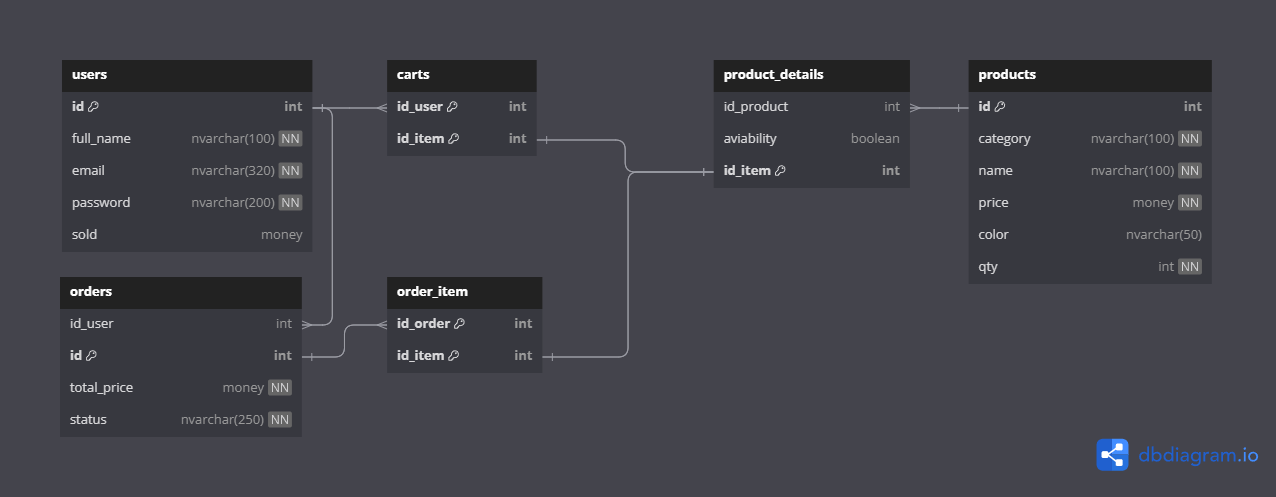
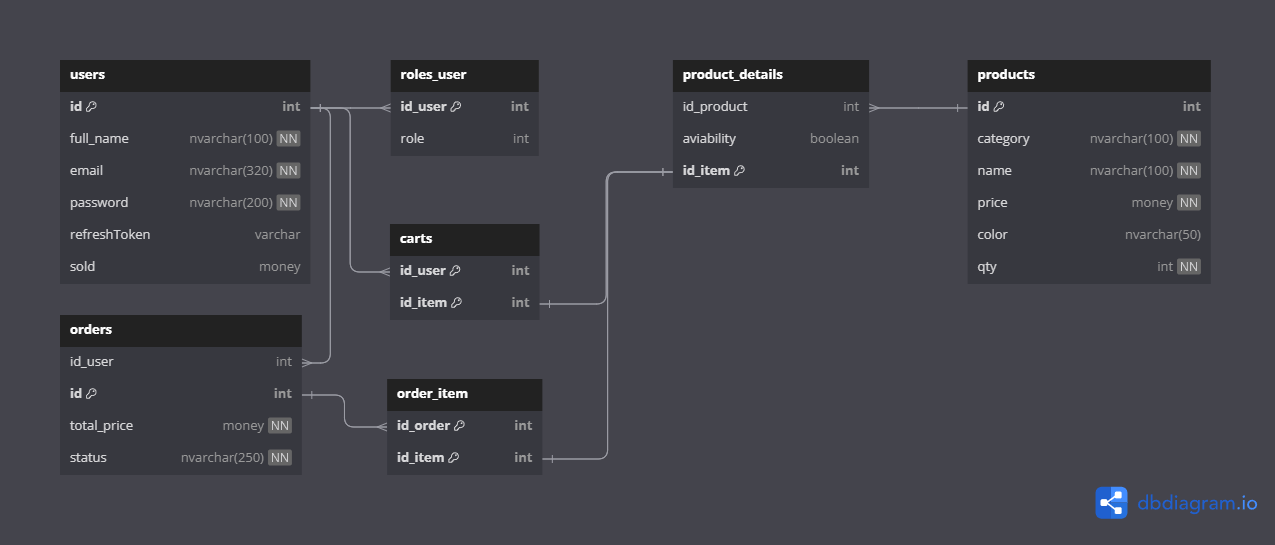
add authentification systeme in userController

diff --git a/server/controllers/UsersController.js b/server/controllers/UsersController.js
@@ -1,9 +1,8 @@
 const bcrypt = require("bcrypt");
-const {pool} = require("../Model/querie");
-/*const allUsers = await pool.query("SELECT * FROM users", async (error, results) =>{
-    if(error) throw error;
-    return results.rows
-});*/
+const {pool, getUser} = require("../Model/querie");
+const jwt = require('jsonwebtoken');
+const { SERVER } = require('../../config');
+
 
 // *** Users *** //
 
@@ -24,10 +23,6 @@ const getUserById = (request, response) =>{
 
 const addUser = async (request, response) =>{
     const {full_name, email, password, sold} = request.body;
-
-    //const duplicat = allUsers.find(user => user.full_name === full_name || user.email === email);
-    //if(duplicat) return response.sendStatus('409'); //Conflict
-
     try {
         // Encrypte the password
         const hashPswd = await bcrypt.hash(password, 10);
@@ -40,18 +35,6 @@ const addUser = async (request, response) =>{
     } catch (error) {
         response.status('500').json({"message": error.message});
     };
-};
-
-const userLogIn = (request, response) =>{
-    const {email, password} = request.body;
-    pool.query(`SELECT * FROM users WHERE email = $1`, [email], async (error, results) => {
-        if (error) throw error;
-        const match = await bcrypt.compare(password, results.rows[0].password);
-        if(match){
-            // here creation of the JWT
-            response.json({'success': `user: ${results.rows[0].full_name} is logged in.`})
-        } else response.sendStatus(401);
-    })
 };
 
 const deleteUser = (request, response) =>{
@@ -77,15 +60,101 @@ const updateUser = (request, response) =>{
         [full_name, email, password, sold], 
         (error, results) => {
             if (error) throw error;
-            response.status(201).send(`User id ${results.rows[0].id } updated`);
+            response.sendStatus(201).send(`User id ${results.rows[0].id } updated`);
     })
+};
+
+// *** LOGIN AND ROLES *** //
+
+// TOOLS
+const tokenCreation = async (token_secret, email, time) =>{
+    const token = jwt.sign(
+        {'email': email}, 
+        token_secret,
+        {expiresIn: time},
+    );
+    return token;
+};
+
+const verifyToken = async(refreshToken, refresh_token_secret, token_secret, email, response) =>{
+    jwt.verify(
+        refreshToken,
+        refresh_token_secret,
+        async (err, decoded)=>{
+            if(err || email !== decoded.email) return response.sendStatus(403); // Forbiden
+            const accessToken = await tokenCreation(token_secret, decoded.email, "1000s");
+            response.json({accessToken});
+        }
+    );
+};
+
+const foundUser = async(propertie, value) =>{
+    const allUser = await getUser();
+    const foundUser = allUser.rows.find(user => user[propertie] === value);
+    return foundUser;
+}
+
+
+// CONTROLLERS
+
+const userLogIn = async(request, response) =>{
+    const {email, password} = request.body;
+    if(!email || !password) return response.sendStatus(400).json({"message": "username and password are required"})
+    const user = await foundUser("email", email);
+    //console.log(foundUser.email)
+    if(!user) return response.sendStatus(401); // Unauthorize 
+    const match = await bcrypt.compare(password, user.password);
+    if(match){
+        // here creation of the JWT
+        const accessToken = await tokenCreation(SERVER.ACCESS_TOKEN_SECRET, user.email,'1000s');
+        const refreshToken = await tokenCreation(SERVER.REFRESH_TOKEN_SECRET, user.email,'1d');
+        console.log(refreshToken);
+        // saving refreshToken in the current user
+        pool.query("UPDATE users SET refreshtoken = $1 WHERE email = $2", [refreshToken, user.email]);
+        response.cookie('jwt', refreshToken, {httpOnly: true, maxAge: 24*60*60*1000});
+        response.json({accessToken});
+    } else response.sendStatus(401);
+};
+
+const userRefresh = async (request, response) =>{
+    const cookie = request.cookies;
+    if(!cookie?.jwt) return response.sendStatus(401);
+    const refreshToken = cookie.jwt;
+    //console.log(refreshToken);
+    const user = await foundUser("refreshtoken", refreshToken);
+    //console.log(user);
+    if(!user) return response.sendStatus(403); // Forbidden 
+    await verifyToken(refreshToken, SERVER.REFRESH_TOKEN_SECRET, SERVER.ACCESS_TOKEN_SECRET, user.email, response);
+};
+
+const userLogOut = async(request, response) =>{
+    const cookie = request.cookies;
+    if(!cookie?.jwt) return response.sendStatus(204);
+    const refreshToken = cookie.jwt;
+    //console.log(refreshToken);
+    const user = await foundUser("refreshtoken", refreshToken);
+    //console.log(user);
+    // is refreshtoken inside our DB?
+    if(!user){
+        console.log("user not found")
+        response.clearCookie('jwt', refreshToken, {httpOnly: true, maxAge: 24*60*60*1000});
+        return response.sendStatus(401);
+    };
+    //Delete refreshtoken
+    console.log(`user is found`)
+    pool.query("UPDATE users SET refreshtoken = $1 WHERE email = $2", ['', user.email]);
+    response.clearCookie('jwt', refreshToken, {httpOnly: true, maxAge: 24*60*60*1000});
+    response.sendStatus(204);
 };
 
 module.exports = {
     getAllusers,
     getUserById,
     addUser,
-    userLogIn,
     deleteUser,
-    addSold
+    addSold,
+    updateUser,
+    userLogIn,
+    userRefresh,
+    userLogOut
 };

diff --git a/app.js b/app.js
@@ -1,10 +1,12 @@
 const express = require('express');
 const bodyParser = require('body-parser');
+const cookieParser = require('cookie-parser');
 const cors = require('cors');
 const path = require("path");
 const app = express();
-const {PORT} = require('./config');
-const port = PORT;
+const {SERVER} = require('./config');
+const PORT = SERVER.PORT;
+const {verifyJWT} = require('./middlewares/verifyJWT');
 
 app.use((req, res, next)=>{
   console.log(`${req.method} ${req.path}`);
@@ -14,6 +16,7 @@ app.use((req, res, next)=>{
 app.use(cors());
 app.use(bodyParser.json());
 app.use(bodyParser.urlencoded({ extended: true }));
+app.use(cookieParser());
 app.use(express.static(path.join(__dirname, "/public")));
 
 app.get('/home', (req, res) =>{
@@ -24,7 +27,7 @@ app.get('/logIn', (req, res) =>{
   res.sendFile(path.join(__dirname, "public", "html", "logIn.html"));
 });
 
-app.get('/shop', (req, res) =>{
+app.get('/shop', verifyJWT, (req, res) =>{
   res.sendFile(path.join(__dirname, "public", "html", "shop.html"));
 });
 
@@ -32,7 +35,7 @@ app.get('/signIn', (req, res) =>{
   res.sendFile(path.join(__dirname, "public", "html", "signIn.html"));
 });
 
-app.get('/tools', (req, res) =>{
+app.get('/tools', verifyJWT, (req, res) =>{
   res.sendFile(path.join(__dirname, "public", "html", "tools.html"));
 });
 
@@ -48,6 +51,6 @@ app.use('/ProductDetails', ProductsDetailsRouter);
 const ProductsRouter = require('./server/routes/ProductsRoute');
 app.use('/Products', ProductsRouter);
 
-app.listen(port, ()=>{
-    console.log(`App is listening on port: ${port}`)
+app.listen(PORT, ()=>{
+    console.log(`App is listening on port: ${PORT}`)
 });

diff --git a/server/routes/UsersRoute.js b/server/routes/UsersRoute.js
@@ -3,17 +3,25 @@ const {
     getAllusers,
     getUserById,
     addUser,
-    userLogIn,
     deleteUser,
-    addSold
+    addSold,
+    updateUser,
+    userLogIn,
+    userRefresh,
+    setUserRole,
+    userLogOut
 } =  require('../controllers/UsersController');
+const {verifyJWT} = require('../../middlewares/verifyJWT');
 
 // users manipulation
-UsersRouter.get('/', getAllusers);
-UsersRouter.get('/:id', getUserById);
+
 UsersRouter.post('/addUser', addUser);
 UsersRouter.post('/logIn', userLogIn);
-UsersRouter.delete('/:id/deleteUser', deleteUser);
-UsersRouter.put('/:id/addSold', addSold);
+UsersRouter.put('/logOut', userLogOut);
+UsersRouter.get('/refresh', userRefresh);
+UsersRouter.delete('/:id/deleteUser', verifyJWT, deleteUser);
+UsersRouter.put('/:id/addSold', verifyJWT, addSold);
+UsersRouter.get('/', verifyJWT, getAllusers);
+UsersRouter.get('/:id', verifyJWT, getUserById);
 
 module.exports = UsersRouter;

diff --git a/server/routes/ProductsRoute.js b/server/routes/ProductsRoute.js
@@ -8,17 +8,18 @@ const {
     addProductDetail, 
     getProductDetailByProduct,
 } =  require('../controllers/ProductsController');
+const {verifyJWT} = require('../../middlewares/verifyJWT');
 
 // products manipulation
-ProductsRouter.get('/', getAllProducts);
+ProductsRouter.get('/', verifyJWT, getAllProducts);
 ProductsRouter.get('/:id', getProductById);
 ProductsRouter.post('/addProduct', addProduct);
-ProductsRouter.delete('/:id/deleteProduct', deleteProductAndProductDetails);
+ProductsRouter.delete('/:id/deleteProduct', verifyJWT, deleteProductAndProductDetails);
 
 // Handle both POST and PUT requests for adding stock
 ProductsRouter.route('/:id/addStock')
-.post(addProductDetail)
-.put(addStock);
+.post(verifyJWT, addProductDetail)
+.put(verifyJWT, addStock);
 
 // product_details manipulation by products
 ProductsRouter.get('/:id/getProductDetailByProduct', getProductDetailByProduct);

diff --git a/config.js b/config.js
@@ -1,13 +1,16 @@
 require('dotenv').config();
 
 module.exports = {
+  SERVER:{
     PORT: process.env.PORT,
-    DB: {
-      PGHOST: process.env.PGHOST,
-      PGUSER: process.env.PGUSER,
-      PGDATABASE: process.env.PGDATABASE,
-      PGPASSWORD: process.env.PGPASSWORD,
-      PGPORT: process.env.PGPORT
-    },
-    SESSION_SECRET: process.env.SESSION_SECRET
+    ACCESS_TOKEN_SECRET: process.env.ACCESS_TOKEN_SECRET,
+    REFRESH_TOKEN_SECRET: process.env.REFRESH_TOKEN_SECRET
+  },
+  DB: {
+    PGHOST: process.env.PGHOST,
+    PGUSER: process.env.PGUSER,
+    PGDATABASE: process.env.PGDATABASE,
+    PGPASSWORD: process.env.PGPASSWORD,
+    PGPORT: process.env.PGPORT
   }
+}

diff --git a/middlewares/verifyJWT.js b/middlewares/verifyJWT.js
@@ -1,0 +1,20 @@
+const jwt = require('jsonwebtoken');
+const {SERVER} = require('../config');
+
+const verifyJWT = (req, res, next) =>{
+    const authHeader = req.headers['authorization'];
+    if(!authHeader) return res.sendStatus(401);
+    console.log(authHeader);
+    const token = authHeader.split(' ')[1];
+    jwt.verify(
+        token,
+        SERVER.ACCESS_TOKEN_SECRET,
+        (err, decoded) =>{
+            if(err) return res.sendStatus(403); // invalid token
+            req.email = decoded.email;
+            next();
+        }
+    );
+};
+
+module.exports = {verifyJWT};

diff --git a/server/Model/querie.js b/server/Model/querie.js
@@ -9,6 +9,16 @@ const pool = new Pool({
   port: DB.PGPORT
 });
 
+const getUser = () =>{ 
+  const allUser = pool.query("SELECT * FROM users");
+  return allUser;
+};
+const getUserRole = async(userId) =>{
+  pool.query("SELECT * FROM users");
+}
+  
+
 module.exports = {
-    pool
+    pool,
+    getUser
 };
